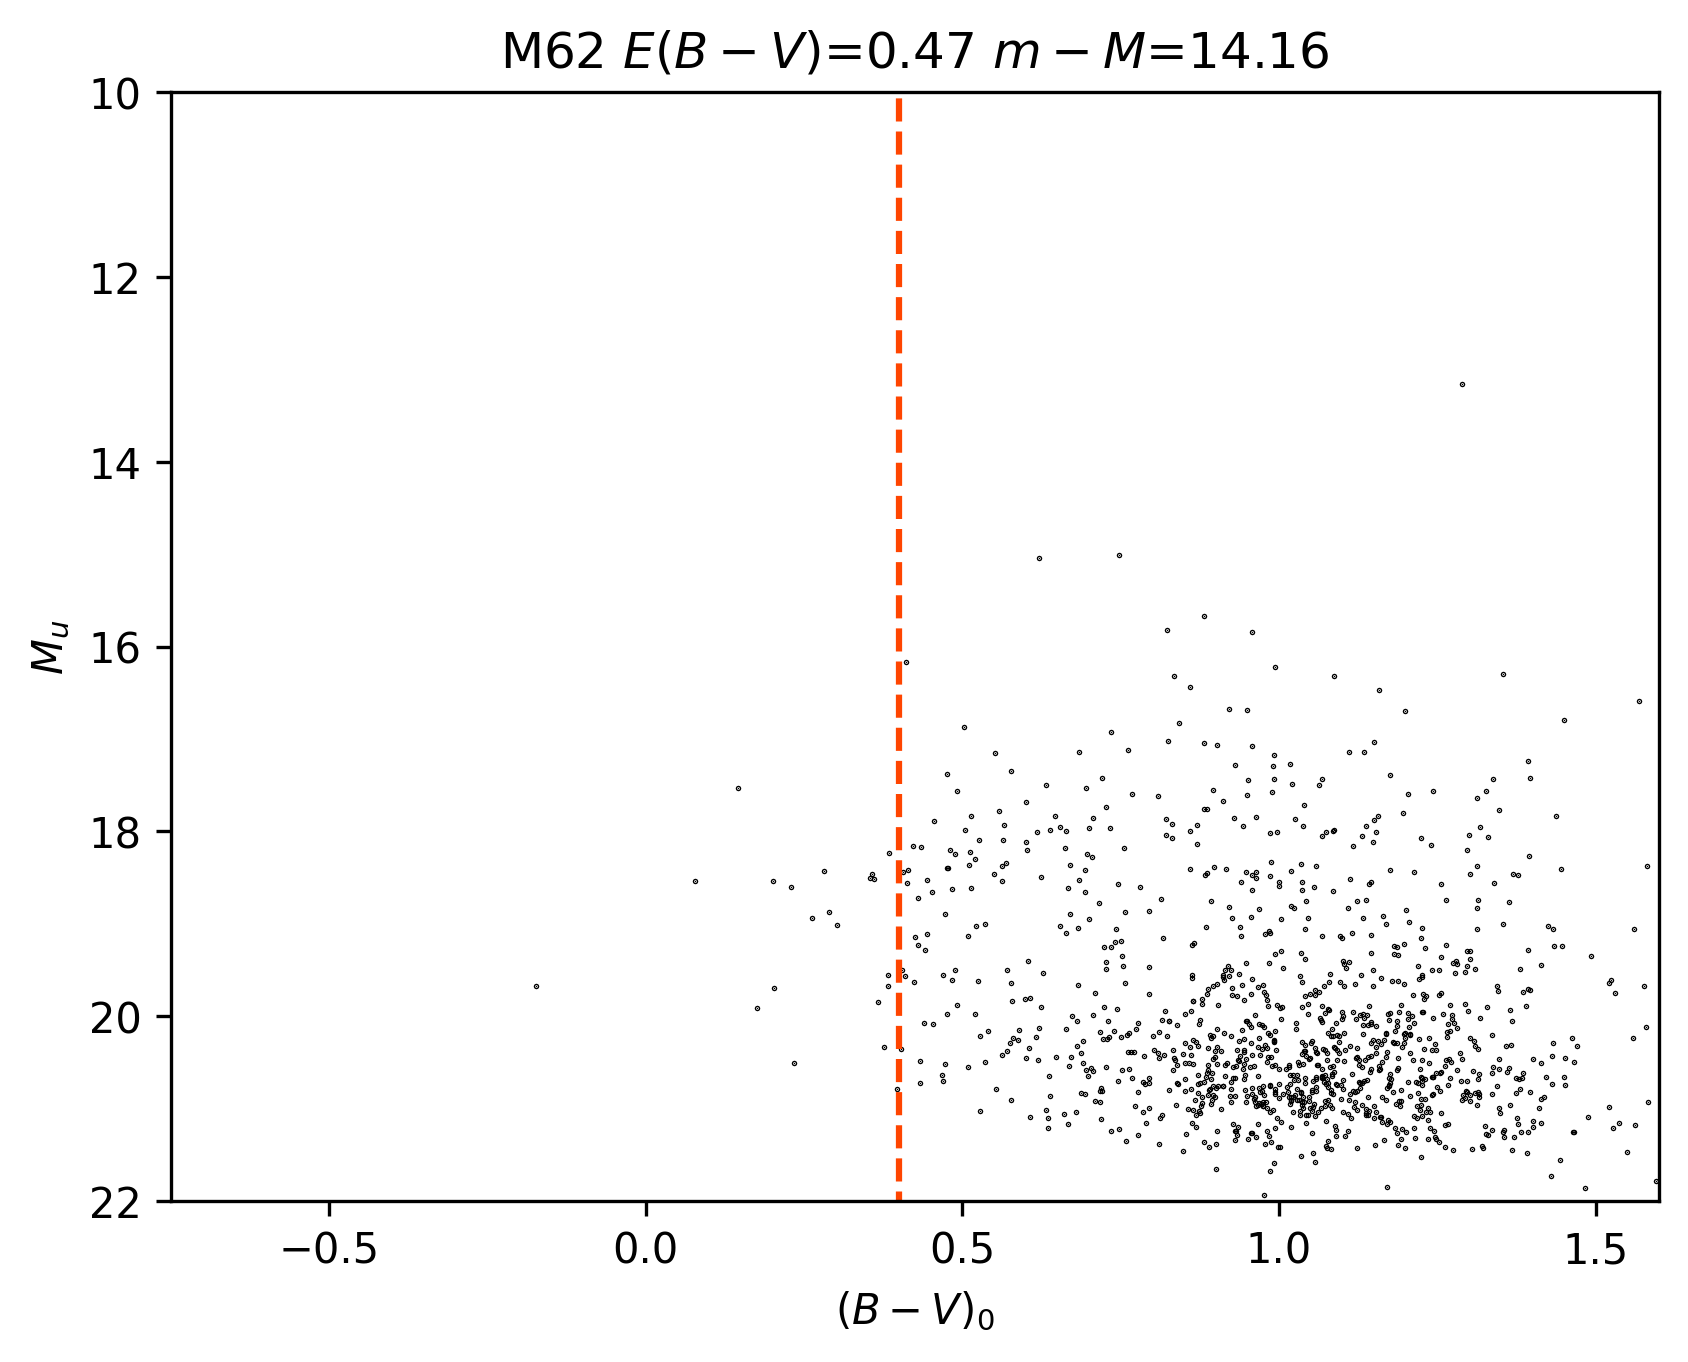
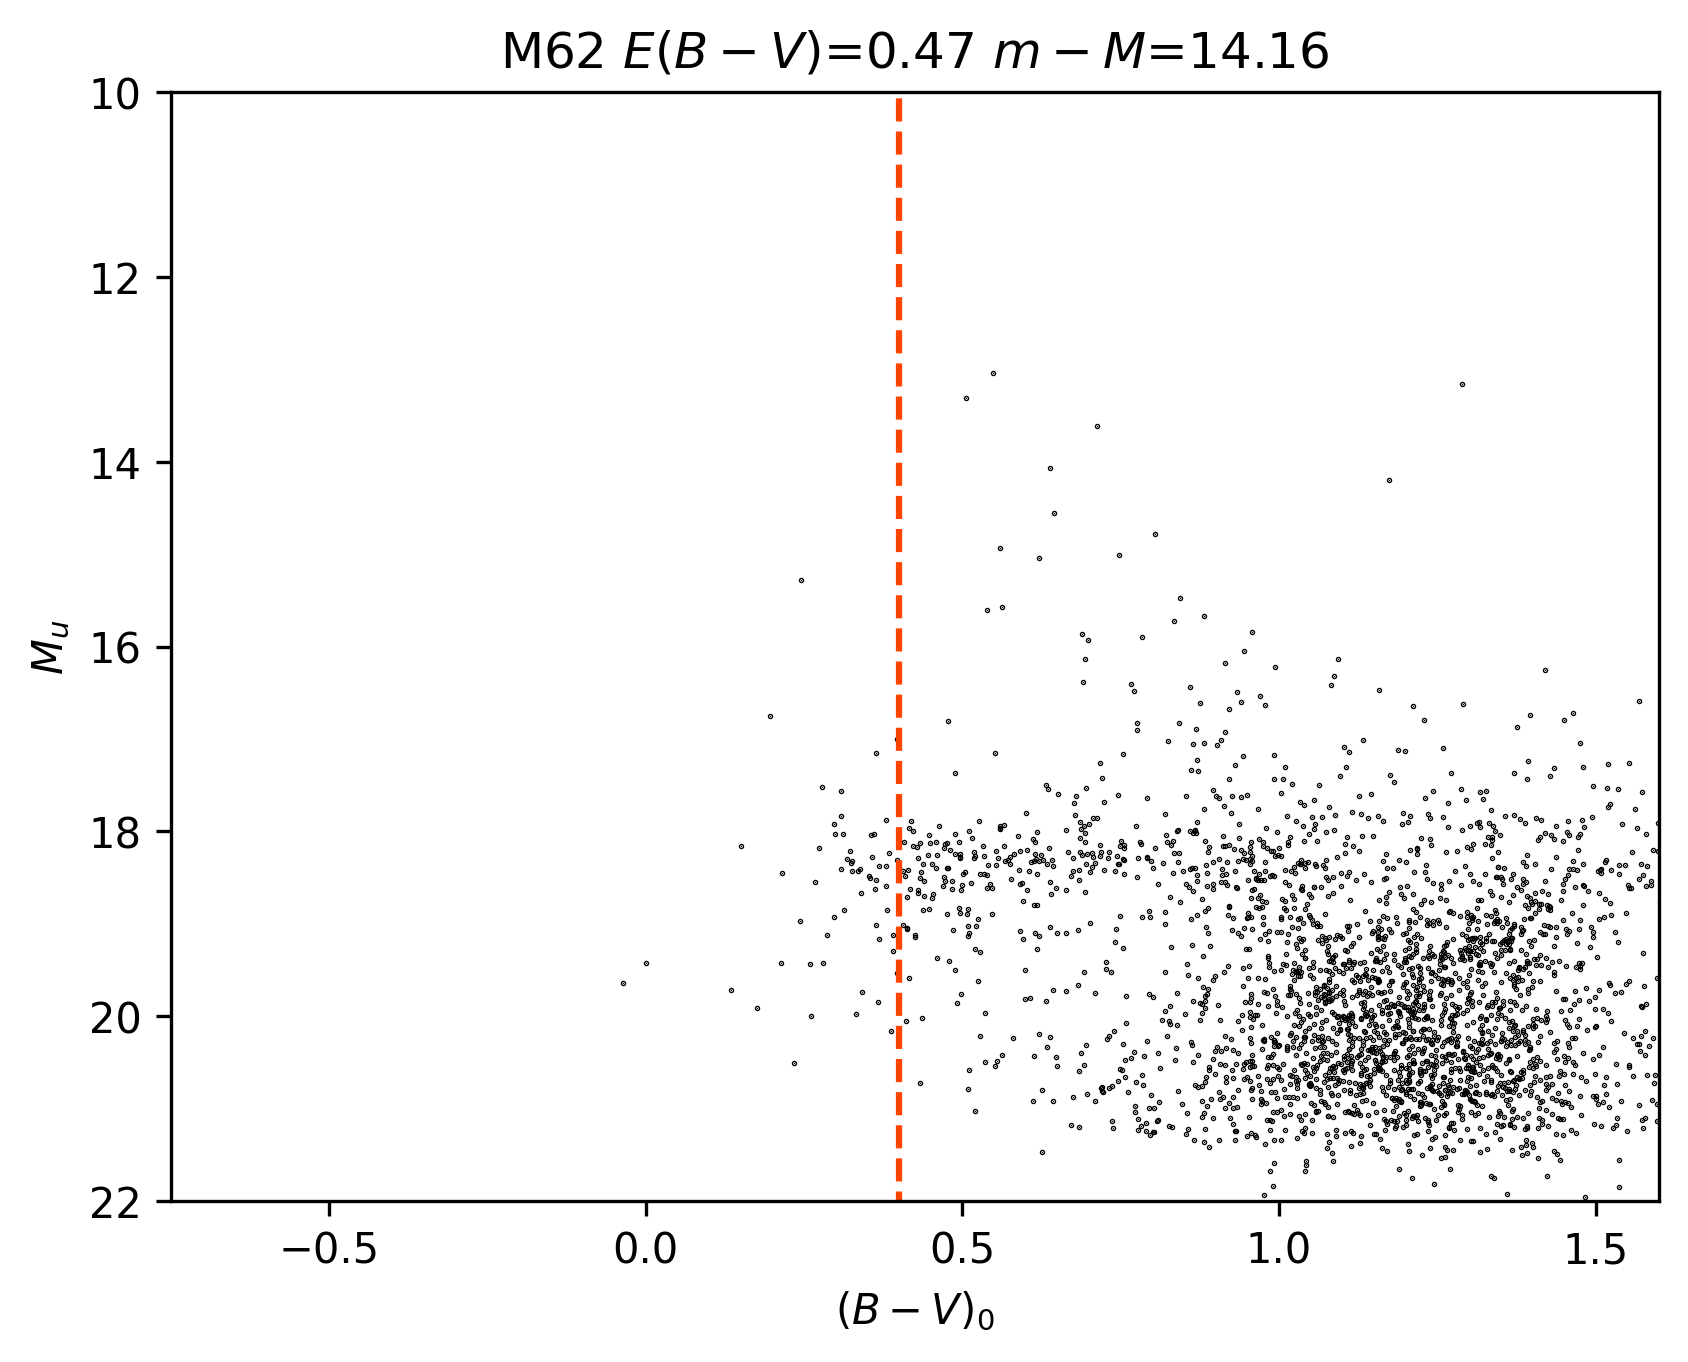
Fixed for M62

Changed region(s): [[0.4929, 0.5859, 0.9858, 0.8634]]

diff --git a/trial.py b/trial.py
@@ -13,7 +13,7 @@ import logging
 ## Explainer: Currently creating CMDs using unprocessed (dereddening), observed mag values. CandStar lists of both UBV
 ## and VBV are produced. HEB checking individuals.
 
-ext = "testing123"
+ext = "testing"
 
 def coordTransfer(ra, dec):
     raString = ra.split(" ")
@@ -148,8 +148,8 @@ def DBSCANPlots(bv,v,b,u,vi,ub,ubbv,clusterName,cond,dist,raClust,decClust,c,r_c
     distModulus = 5*np.log10(dist*100)
 
     #HB Model Equation
-    y2 = model_f(bv[indAll], -3.74, 7.03, 6.83, -19.86, 8.98, -1.51, 0.35,0.2)
-    y_u = model_f(bv[indAll], -3.74, 7.03, 6.83, -19.86, 8.98, -1.51, 1.65, 0.8)
+    y2 = model_f(bv[indAll], -3.74, 7.03, 6.83, -19.86, 8.98, -1.51, 0.35,0.05)
+    y_u = model_f(bv[indAll], -3.74, 7.03, 6.83, -19.86, 8.98, -1.51, 1.65, 0.5)
 
     #y2 = model_f(bv[indAll], -3.74, 7.03, 6.83, -19.86, 8.98, -1.51, 0.83)
     UVBrightCond = np.logical_and(v[indAll]<y2,bv[indAll]<-0.05)
@@ -242,7 +242,7 @@ def DBSCANPlots(bv,v,b,u,vi,ub,ubbv,clusterName,cond,dist,raClust,decClust,c,r_c
     xplot = np.linspace(bv[indAll].min(), bv[indAll].max(), len(bv[indAll]))
     # x_array = np.linspace(-0.6,1.3,100)
     # y = model_f(xplot, -3.74, 7.03, 6.83, -19.86, 8.98, -1.51, 0.35, -0.15)
-    y = model_f(xplot, -3.74, 7.03, 6.83, -19.86, 8.98, -1.51, 0.35,0.2)
+    y = model_f(xplot, -3.74, 7.03, 6.83, -19.86, 8.98, -1.51, 0.35,0.05)
     ax.plot(xplot, y, "r-")
     ax.vlines(x=-0.05, ymin=-4, ymax=5)
     # ax.plot(xplot,model_f(xplot,*popt),'r--')
@@ -318,7 +318,7 @@ def DBSCANPlots(bv,v,b,u,vi,ub,ubbv,clusterName,cond,dist,raClust,decClust,c,r_c
     #y = model_f(xplot, -3.74, 7.03, 6.83, -19.86, 8.98, -1.51, 2.1)
     xplot = np.linspace(bv[indAll].min(), bv[indAll].max(), len(bv[indAll]))
     # x_array = np.linspace(-0.6,1.3,100)
-    y = model_f(xplot, -3.74, 7.03, 6.83, -19.86, 8.98, -1.51, 1.65,0.8)
+    y = model_f(xplot, -3.74, 7.03, 6.83, -19.86, 8.98, -1.51, 1.65,0.5)
     # y = model_f(xplot, -3.74, 7.03, 6.83, -19.86, 8.98, -1.51, 0.83)
     ax.plot(xplot, y, "r-")
     ax.vlines(x=-0.05, ymin=-4, ymax=5)
